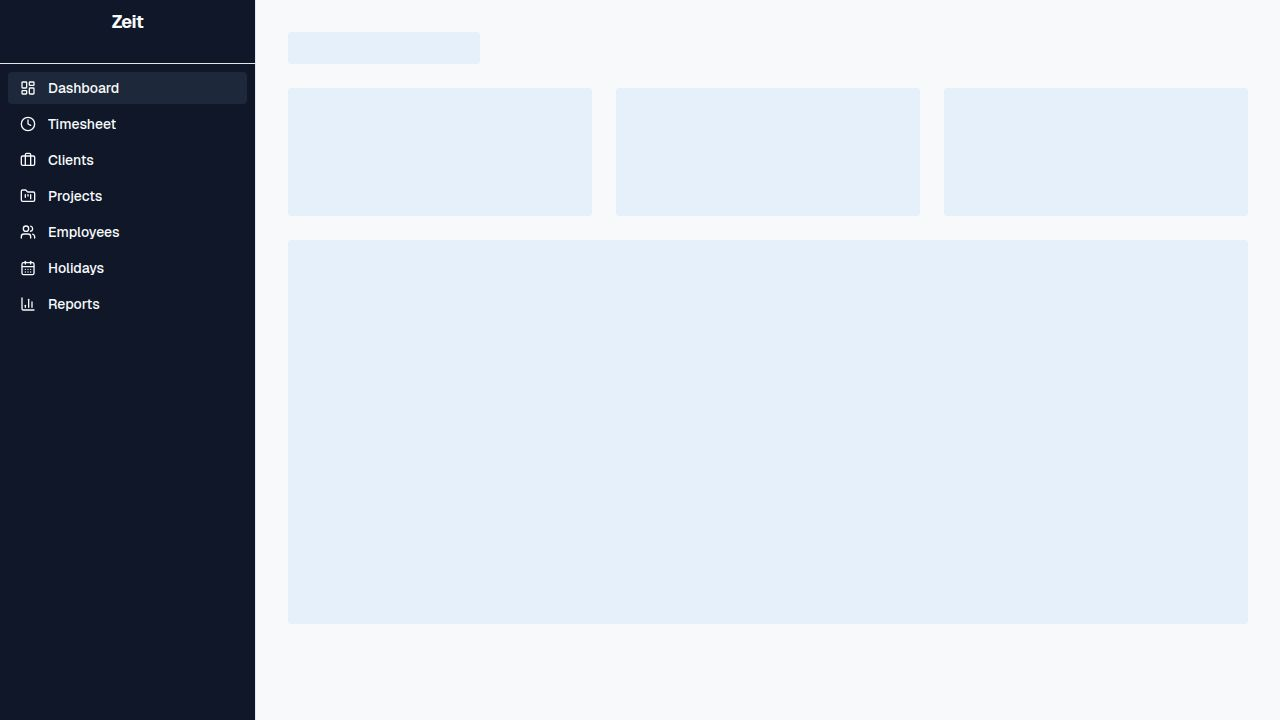
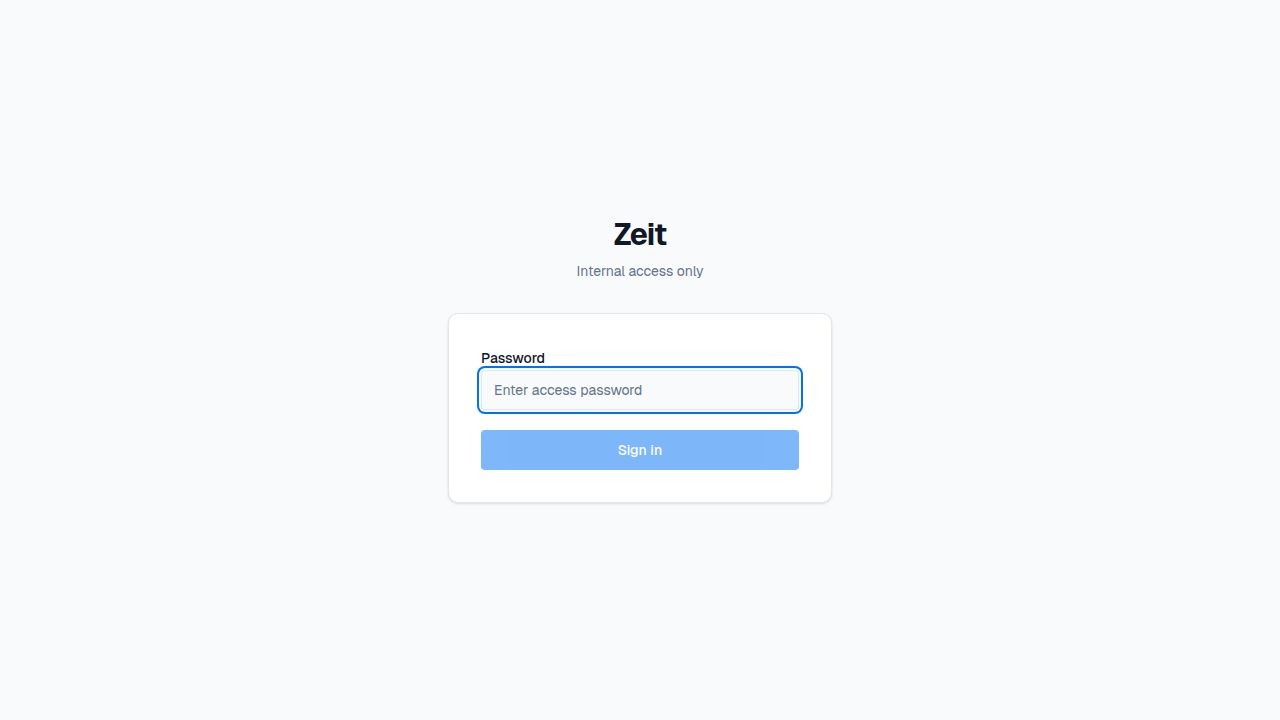
feat: global app password protection (Task #1)
- Backend: express-session + express-rate-limit; POST /api/auth/app/login,
  POST /api/auth/app/logout, GET /api/auth/app/me in app-auth.ts
- requireAppAuth middleware protects all /api/* routes except health,
  auth/app/*, and auth/employee/* paths
- Session cookie "zeit.sid" (httpOnly, 7-day, sameSite=lax)
- Rate limiting: 10 failed login attempts per 15-minute window per IP
- Startup validation: server exits if APP_ACCESS_PASSWORD or SESSION_SECRET missing
- Frontend: Login page with clean UI, useAppAuth hook (React Query cached),
  AuthGuard component wrapping all protected routes via useEffect
- Logout button in sidebar footer (SidebarFooter)
- Verified end-to-end: login, session, protected routes, logout, 401 on no-session

Changed region(s): [[0.0, 0.0, 0.2188, 1.0], [0.3438, 0.4278, 0.6562, 0.7028], [0.4375, 0.3056, 0.5625, 0.3972]]

diff --git a/artifacts/time-tracker/src/App.tsx b/artifacts/time-tracker/src/App.tsx
@@ -1,3 +1,4 @@
+import { useEffect } from "react";
 import { Switch, Route, Router as WouterRouter, Redirect, useLocation } from "wouter";
 import { QueryClient, QueryClientProvider } from "@tanstack/react-query";
 import { Toaster } from "@/components/ui/toaster";
@@ -23,6 +24,12 @@ function AuthGuard({ children }: { children: React.ReactNode }) {
   const [, navigate] = useLocation();
   const auth = useAppAuth();
 
+  useEffect(() => {
+    if (auth === "unauthenticated") {
+      navigate("/login");
+    }
+  }, [auth, navigate]);
+
   if (auth === "loading") {
     return (
       <div className="min-h-screen flex items-center justify-center bg-background">
@@ -32,8 +39,6 @@ function AuthGuard({ children }: { children: React.ReactNode }) {
   }
 
   if (auth === "unauthenticated") {
-    // Redirect to login
-    navigate("/login");
     return null;
   }
 
@@ -48,10 +53,12 @@ function Router() {
       {/* Public routes */}
       <Route path="/login" component={Login} />
 
-      {/* Protected routes — wrapped individually so AuthGuard runs per-render */}
+      {/* Root redirect */}
       <Route path="/">
-        <AuthGuard><Redirect to="/dashboard" /></AuthGuard>
+        <Redirect to="/dashboard" />
       </Route>
+
+      {/* Protected routes */}
       <Route path="/dashboard">
         <AuthGuard><Dashboard /></AuthGuard>
       </Route>